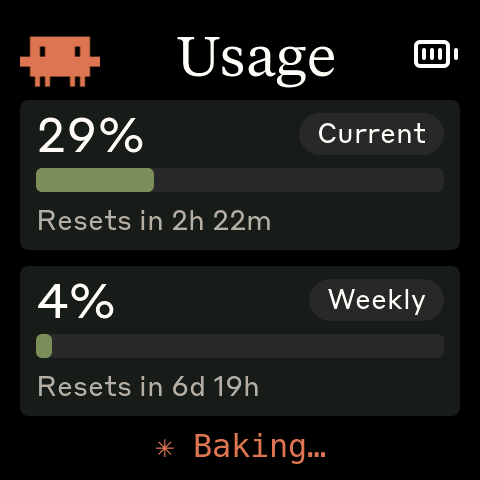
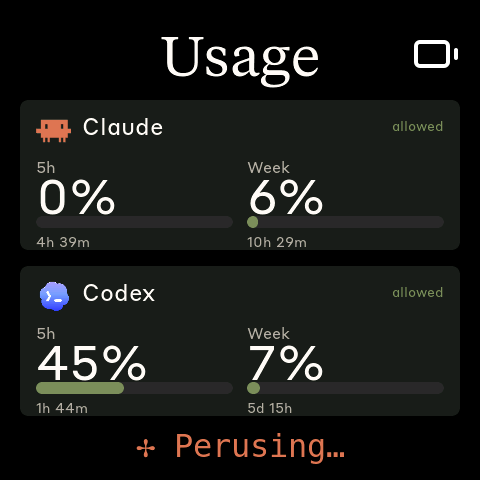
Document DeskPulse fork direction

diff --git a/README.md b/README.md
@@ -1,10 +1,18 @@
-# Clawdmeter
+# DeskPulse
 
-A small ESP32 dashboard I made for my desk to keep an eye on Claude Code usage.
+An ESP32 desk dashboard for keeping an eye on Claude Code and Codex usage.
 
-It runs on a [Waveshare ESP32-S3-Touch-AMOLED-2.16](https://www.waveshare.com/esp32-s3-touch-amoled-2.16.htm?&aff_id=149786) as well as a few other alternative boards and pairs over Bluetooth, the splash screen plays pixel-art Clawd animations that get
-busier when your usage rate climbs. The two side buttons send Space and
-Shift+Tab over BLE HID for Claude Code's voice mode and mode-toggle shortcuts.
+DeskPulse started as a fork of [HermannBjorgvin/Clawdmeter](https://github.com/HermannBjorgvin/Clawdmeter).
+The original project focuses on a simple Claude Code usage desk toy; this fork
+is maintained separately for multi-provider usage monitoring. The repository
+intentionally remains a GitHub fork so that the upstream origin stays visible.
+See [UPSTREAM.md](UPSTREAM.md) for the fork history and attribution notes.
+
+It runs on a [Waveshare ESP32-S3-Touch-AMOLED-2.16](https://www.waveshare.com/esp32-s3-touch-amoled-2.16.htm?&aff_id=149786) as well as a few other alternative boards and pairs over Bluetooth. The splash screen plays pixel-art Clawd animations that get busier when your usage rate climbs. The two side buttons send Space and Shift+Tab over BLE HID for Claude Code's voice mode and mode-toggle shortcuts.
+
+Some firmware and daemon identifiers still use the original `Claude Controller`
+or `claude-usage-daemon` names for compatibility with existing BLE pairing,
+launchd, and systemd setups.
 
 |              Usage meter              |              Clawd animation screen              |
 | :-----------------------------------: | :----------------------------------------------: |
@@ -14,12 +22,25 @@ The Clawd animations come from [claudepix](https://claudepix.vercel.app), [@amaa
 
 ## Screens
 
-The device boots into the splash and stays there until you press the middle (PWR) button, which cycles between Usage and Bluetooth. Tap the screen anywhere (except the Reset zone on the Bluetooth screen) to flip back to the splash; tap again to dismiss it.
+The device boots into the splash and stays there until you press the middle
+(PWR) button. The main screen cycle is:
 
-|              Splash               |              Usage              |                Bluetooth                |
-| :-------------------------------: | :-----------------------------: | :-------------------------------------: |
+```text
+Usage -> Claude -> Codex -> Bluetooth -> Usage
+```
+
+Tap the screen anywhere (except the Reset zone on the Bluetooth screen) to flip
+back to the splash; tap again to dismiss it.
+
+|              Splash               |                    Usage                    |                    Bluetooth                    |
+| :-------------------------------: | :-----------------------------------------: | :---------------------------------------------: |
 | ![Splash](screenshots/splash.png) | ![Usage](screenshots/usage.png) | ![Bluetooth](screenshots/bluetooth.png) |
-|   Splash; touch-toggle anytime    | Session and weekly utilization  |    Connection status and bond reset     |
+|   Splash; touch-toggle anytime    | Claude and Codex utilization together       | Connection status, address, and bond reset      |
+
+|                    Claude                    |                    Codex                    |
+| :------------------------------------------: | :-----------------------------------------: |
+| ![Claude](screenshots/claude.png) | ![Codex](screenshots/codex.png) |
+|        Claude-only 5h and weekly usage        |        Codex-only 5h and weekly usage       |
 
 While the splash is up, the middle button cycles animations instead of screens. The firmware also auto-rotates every 20 s within the current usage-rate group, so a long stretch on the splash isn't just one Clawd on loop.
 
@@ -58,7 +79,9 @@ The board env name is required. Run `./flash-mac.sh` with no args to see the ava
 
 ### Pair the device
 
-After flashing, open **System Settings → Bluetooth** and click *Connect* next to "Clawdmeter". The daemon will discover it on its next scan (~30 s).
+After flashing, open **System Settings → Bluetooth** and click *Connect* next
+to "Claude Controller" (the legacy BLE name). The daemon will discover it on
+its next scan (~30 s).
 
 ### Install the daemon
 
@@ -85,7 +108,7 @@ The script updates `daemon/config.toml` and reloads the LaunchAgent. The setting
 Provider selection priority:
 
 1. CLI flag: `daemon/.venv/bin/python daemon/claude_usage_daemon.py --provider both`
-2. Environment variable: `CLAWDMETER_PROVIDER=both`
+2. Environment variable: `CLAWDMETER_PROVIDER=both` (legacy name)
 3. Config file: `daemon/config.toml`
 
 Claude uses the existing Claude Code OAuth credential store. Codex uses ChatGPT OAuth credentials from `~/.codex/auth.json` or the Codex keychain store (`Codex Auth`). Codex API-key mode does not have 5-hour/weekly subscription limits, so the daemon reports an unavailable status instead of fabricating values. In `both` mode the daemon sends legacy top-level Claude fields plus compact nested `c` (Claude) and `x` (Codex) fields for the dual UI.
@@ -112,7 +135,8 @@ The board env name is required. Run `./flash.sh` with no args to see the availab
 
 ### Pair the device
 
-After flashing, the device advertises as "Claudemeter". Pair it once:
+After flashing, the device advertises as "Claude Controller" (the legacy BLE
+name). Pair it once:
 
 ```bash
 # Scan for the device
@@ -155,7 +179,7 @@ The board has three side buttons. Left and right do the same thing on every scre
 | Button           | GPIO         | Function                                                       |
 | ---------------- | ------------ | -------------------------------------------------------------- |
 | **Left**         | GPIO 0       | Hold to send Space (Claude Code voice-mode push-to-talk)       |
-| **Middle** (PWR) | AXP2101 PKEY | Cycle screens (Usage ↔ Bluetooth); on splash, cycle animations |
+| **Middle** (PWR) | AXP2101 PKEY | Cycle screens (Usage -> Claude -> Codex -> Bluetooth); on splash, cycle animations |
 | **Right**        | GPIO 18      | Press to send Shift+Tab (Claude Code mode toggle)              |
 
 Space and Shift+Tab go out as standard BLE HID keyboard reports, so they trigger in whatever window has focus on the paired host — not just Claude Code.
@@ -273,10 +297,11 @@ See `tools/README.md` for details.
 
 ## Credits
 
+- DeskPulse started as a fork of [HermannBjorgvin/Clawdmeter](https://github.com/HermannBjorgvin/Clawdmeter). See [UPSTREAM.md](UPSTREAM.md).
 - Pixel-art Clawd animation by [@amaanbuilds](https://x.com/amaanbuilds), sourced from [claudepix.vercel.app](https://claudepix.vercel.app). Frame data and palettes scraped + converted by the tooling in `tools/`.
 - Lucide icon set ([lucide.dev](https://lucide.dev), MIT) for bluetooth and battery UI glyphs.
 - Anthropic brand fonts (Tiempos Text, Styrene B) — see licensing warning below.
 
 ## Licensing gray area warning
 
-The software in this repository uses and adheres to the Anthropic brand guidelines and uses the same proprietary fonts that Anthropic has a license for but this software uses without permission as well as using assets from Anthropic such as the copyrighted Clawd mascot so even though the code in this repo is non-proprietary I will not license it myself under a copyleft license since this repo includes proprietary fonts and copyrighted assets. Please be aware of this if you fork or copy the code from this repo. **You have been warned!**
+This fork inherits the upstream licensing gray area: the software uses Anthropic brand styling, proprietary fonts, and copyrighted Clawd mascot artwork. The upstream repository did not include an explicit LICENSE file at the point this fork diverged. Please be aware of this if you fork or copy code or assets from this repository. **You have been warned!**

diff --git a/UPSTREAM.md b/UPSTREAM.md
@@ -1,0 +1,37 @@
+# Upstream Origin
+
+DeskPulse started as a fork of:
+
+https://github.com/HermannBjorgvin/Clawdmeter
+
+The original project focuses on a simple Claude Code usage desk toy. This fork
+is maintained separately for multi-provider usage monitoring, currently Claude
+Code and Codex.
+
+## Fork Status
+
+This repository intentionally remains in GitHub's fork network so that the
+upstream origin stays visible in the GitHub UI. If the repository is detached in
+the future, keep this file and the README attribution so the origin remains
+clear.
+
+## Divergence Point
+
+- Upstream repository: `HermannBjorgvin/Clawdmeter`
+- Upstream branch: `main`
+- Divergence commit: `6b5314ef28898896f91f4a9bd6784da8746dbc49`
+- Divergence date: 2026-05-26
+- Upstream PR attempted and closed: https://github.com/HermannBjorgvin/Clawdmeter/pull/38
+
+## Direction
+
+The upstream maintainer clarified that the original project is intended to stay
+focused on Claude usage as a simple desk toy. DeskPulse is a separate direction
+for a desk-side AI usage monitor that can show multiple providers.
+
+## License Note
+
+At the divergence point, the upstream repository did not include an explicit
+LICENSE file. Original upstream code and assets remain attributable to their
+original authors. New work in this fork should not be presented as relicensing
+the upstream project unless licensing is clarified separately.